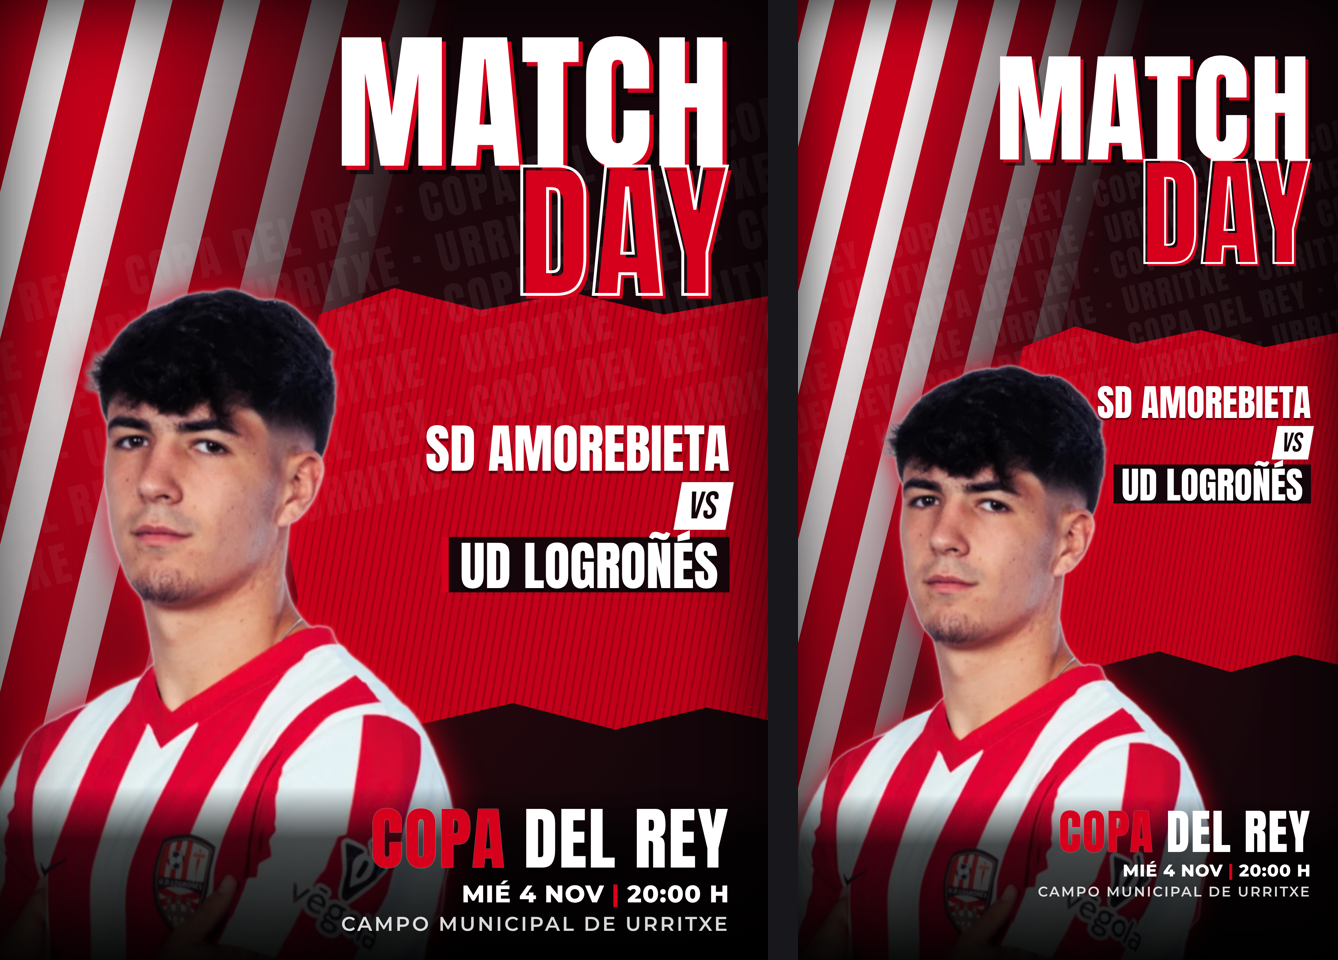
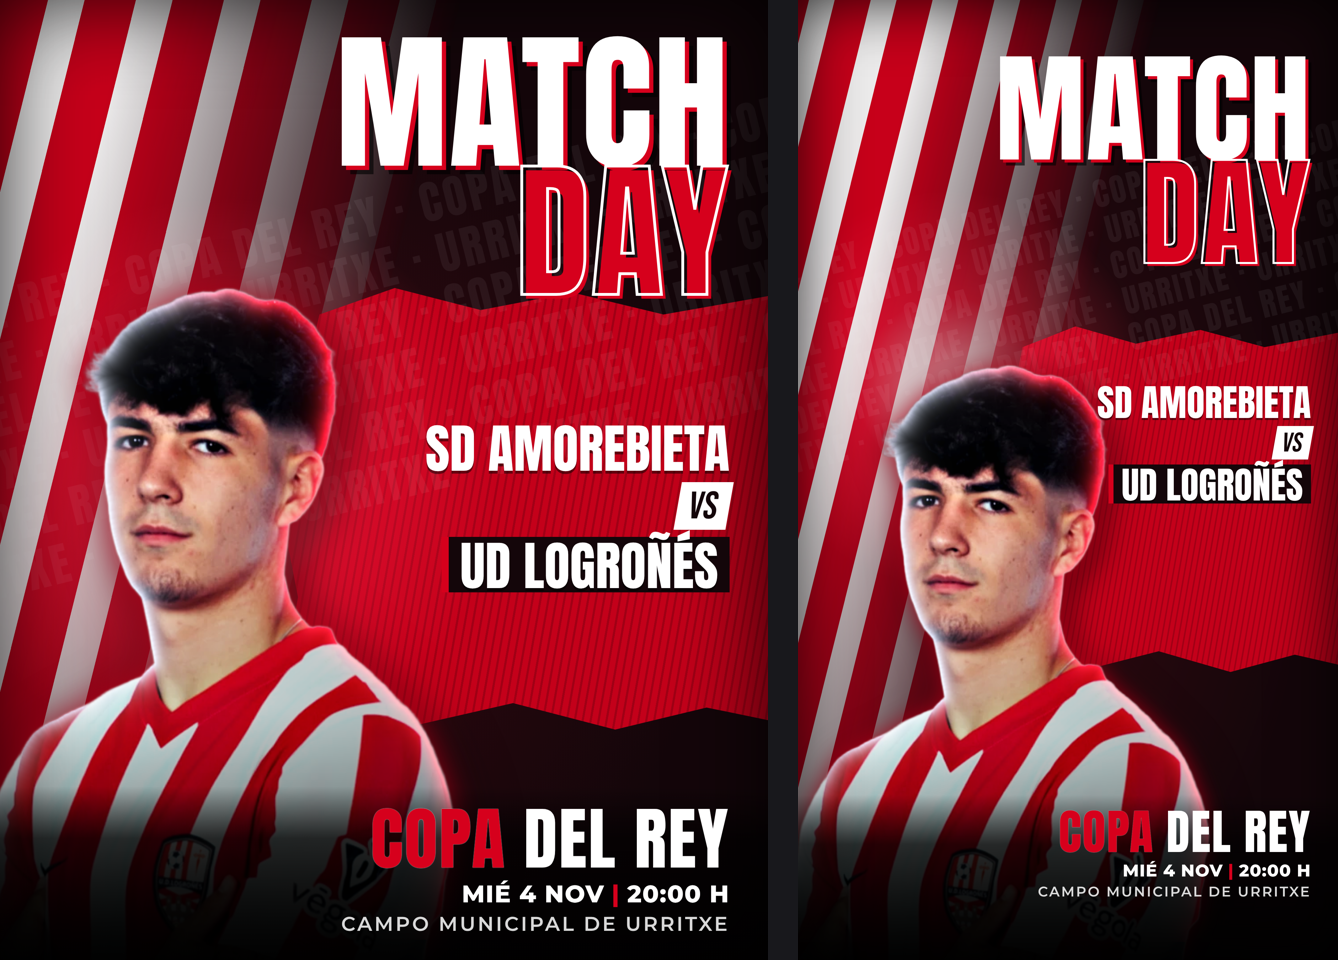
Miniaturero: herramienta 'iluminar' (luz de estudio) y aplicarla al jugador del Match Day
Claude-Session: https://claude.ai/code/session_01Q54DXVH7GopsR3mpjPBNRA

Changed region(s): [[0.0, 0.2812, 0.3371, 0.9688], [0.6129, 0.25, 0.9193, 0.9688]]

diff --git a/miniaturero/salida/2026-11-01_matchday-logrones/proyecto/matchday.html b/miniaturero/salida/2026-11-01_matchday-logrones/proyecto/matchday.html
@@ -37,9 +37,13 @@
 
   .vineta { position: absolute; inset: 0; box-shadow: inset 0 0 220px rgba(0,0,0,.85); pointer-events: none; }
 
+  /* contraluz: foco detrás de la cabeza del jugador */
+  .contraluz { position: absolute; left: -12%; top: 18%; width: 80%; aspect-ratio: 1; border-radius: 50%;
+    background: radial-gradient(circle, rgba(255,235,235,.55) 0%, rgba(255,40,60,.35) 30%, rgba(214,0,28,0) 65%);
+    mix-blend-mode: screen; }
   /* jugador recortado */
   .jugador { position: absolute; bottom: 0; left: -7%; height: var(--jugador-alto);
-    filter: drop-shadow(0 0 2px #fff) drop-shadow(0 0 24px rgba(214,0,28,.9)); }
+    filter: drop-shadow(0 0 1px rgba(255,255,255,.7)) drop-shadow(0 0 22px rgba(214,0,28,.7)) drop-shadow(14px 18px 30px rgba(0,0,0,.6)); }
 
   .titulo { position: absolute; right: 5%; top: 4%; text-align: right; color: var(--blanco);
     font-size: 210px; line-height: .86; letter-spacing: 2px;
@@ -87,7 +91,8 @@
   <div class="eco">COPA DEL REY · COPA DEL REY · COPA DEL REY · COPA DEL REY<br>· URRITXE · URRITXE · URRITXE · URRITXE · URRITXE ·<br>COPA DEL REY · COPA DEL REY · COPA DEL REY · COPA DEL REY<br>· URRITXE · URRITXE · URRITXE · URRITXE · URRITXE ·<br>COPA DEL REY · COPA DEL REY · COPA DEL REY · COPA DEL REY<br>· URRITXE · URRITXE · URRITXE · URRITXE · URRITXE ·</div>
 
   <!-- Jugador: Anai Morales, recortado de la foto aportada por el usuario (entrada/anai_morales.webp) -->
-  <img class="jugador" src="img/jugador.png" alt="Anai Morales">
+  <div class="contraluz"></div>
+  <img class="jugador" src="img/jugador_iluminado.png" alt="Anai Morales">
 
   <div class="vineta"></div>
 

diff --git a/miniaturero/herramientas/mini.py b/miniaturero/herramientas/mini.py
@@ -9,6 +9,7 @@ Uso:
   python3 herramientas/mini.py caras      FOTO                                 # lista caras y avisa si son pequeñas
   python3 herramientas/mini.py cambiar-cara MI_CARA DESTINO SALIDA [--indice 0] [--sin-mejora]
   python3 herramientas/mini.py igualar-luz RECORTE.png REFERENCIA SALIDA.png [--fuerza 0.6]
+  python3 herramientas/mini.py iluminar   RECORTE.png SALIDA.png [--rim-der #ff1a2e --rim-izq #dfe9ff]  # luz de estudio
   python3 herramientas/mini.py revisar    MINIATURA.png [MAS.png ...] --salida comparativa.png
   python3 herramientas/mini.py exportar   MINIATURA.png                        # crea la versión JPG <= 2 MB
 
@@ -276,6 +277,65 @@ def cmd_igualar_luz(a):
     print(f"Luz/color igualados en {a.salida}")
 
 
+def color_hex(h):
+    h = h.lstrip("#"); return np.array([int(h[i:i + 2], 16) for i in (0, 2, 4)], np.float32) / 255
+
+
+def iluminar(rgba, rim_der="#ff1a2e", rim_izq="#dfe9ff", fuerza_rim=1.0, clave=0.55, fundido=0.4):
+    """Iluminación de estudio sobre un recorte RGBA:
+    luz principal suave desde arriba a la izquierda, luces de contorno (rim) de color por los bordes,
+    más contraste local y la parte de abajo fundida en sombra."""
+    rgb = rgba[..., :3].astype(np.float32) / 255
+    a = rgba[..., 3].astype(np.float32) / 255
+    h, w = a.shape
+    ys, xs = np.where(a > 0.5)
+    x0, x1, y0, y1 = xs.min(), xs.max(), ys.min(), ys.max()
+    # 1) contraste local ("clarity") y curva en S suave
+    lum = rgb.mean(2, keepdims=True)
+    rgb = rgb + (rgb - cv2.GaussianBlur(rgb, (0, 0), max(h, w) * 0.03)) * 0.35
+    rgb = rgb.clip(0, 1)
+    rgb = rgb + (rgb - 0.5) * 0.12 - 0.12 * (rgb - 0.5) ** 3 * 4
+    # 2) luz principal: más luz arriba-izquierda, cae hacia abajo-derecha
+    gx = (np.arange(w)[None, :] - x0) / max(x1 - x0, 1)
+    gy = (np.arange(h)[:, None] - y0) / max(y1 - y0, 1)
+    g = np.clip(1 - (0.55 * gx + 0.75 * gy), 0, 1)
+    rgb = rgb * (1 - clave * 0.5 + clave * g[..., None] ** 1.2)
+    # 3) fundido a sombra en la parte de abajo
+    f = np.clip((gy - 0.62) / 0.38, 0, 1) ** 1.3 * fundido * 2
+    rgb = rgb * (1 - np.clip(f, 0, 0.85))[..., None]
+    # 4) luces de contorno: según hacia dónde mira cada borde
+    # se calcula con margen alrededor: si el recorte toca el borde de la imagen, las normales salen bien
+    m = int(max(h, w) * 0.1)
+    ap = cv2.copyMakeBorder(a, m, m, m, m, cv2.BORDER_CONSTANT, value=0)
+    ancho = max(h, w) * 0.016
+    d = cv2.distanceTransform((ap > 0.5).astype(np.uint8), cv2.DIST_L2, 5)[m:-m, m:-m]
+    borde = np.exp(-d / ancho) * a
+    ab = cv2.GaussianBlur(ap, (0, 0), ancho * 3)
+    nx = -cv2.Sobel(ab, cv2.CV_32F, 1, 0, ksize=5)[m:-m, m:-m]
+    ny = -cv2.Sobel(ab, cv2.CV_32F, 0, 1, ksize=5)[m:-m, m:-m]
+    # los bordes que solo son el corte de la foto (abajo del todo) no llevan luz
+    borde[int(h * 0.97):] = 0
+    n = np.sqrt(nx ** 2 + ny ** 2) + 1e-6
+    nx, ny = nx / n, ny / n
+    # mezcla gradual: bordes que miran a la izquierda -> luz fría, a la derecha -> luz de color
+    t = np.clip(0.5 + 0.8 * nx, 0, 1); t = t * t * (3 - 2 * t)
+    orienta = np.clip(0.35 + 0.65 * np.maximum(np.abs(nx), -ny), 0, 1)   # menos luz en bordes que miran abajo
+    color = (1 - t)[..., None] * color_hex(rim_izq) * 1.25 + t[..., None] * color_hex(rim_der) * 1.6
+    luz = (borde * orienta)[..., None] * color
+    luz = luz * fuerza_rim * (1 - np.clip(f, 0, 1))[..., None]
+    rgb = 1 - (1 - rgb.clip(0, 1)) * (1 - luz.clip(0, 1))       # mezcla "trama" (screen)
+    out = (rgb.clip(0, 1) * 255).astype(np.uint8)
+    return np.dstack([out, rgba[..., 3]])
+
+
+def cmd_iluminar(a):
+    no_pisar(a.recorte, a.salida)
+    im = np.array(Image.open(a.recorte).convert("RGBA"))
+    res = iluminar(im, a.rim_der, a.rim_izq, a.fuerza_rim, a.clave, a.fundido)
+    Image.fromarray(res).save(a.salida)
+    print(f"Iluminación de estudio aplicada en {a.salida}")
+
+
 # ---------------------------------------------------------------- revisión y exportación
 def fuente(tam):
     f = BASE / "assets/fonts/Montserrat-Variable.ttf"
@@ -345,6 +405,10 @@ def main():
     s.add_argument("--indice", type=int, default=0); s.add_argument("--sin-mejora", action="store_true"); s.set_defaults(f=cmd_cambiar_cara)
     s = sp.add_parser("igualar-luz"); s.add_argument("recorte"); s.add_argument("referencia"); s.add_argument("salida")
     s.add_argument("--fuerza", type=float, default=0.6); s.set_defaults(f=cmd_igualar_luz)
+    s = sp.add_parser("iluminar"); s.add_argument("recorte"); s.add_argument("salida")
+    s.add_argument("--rim-der", default="#ff1a2e"); s.add_argument("--rim-izq", default="#dfe9ff")
+    s.add_argument("--fuerza-rim", type=float, default=1.0); s.add_argument("--clave", type=float, default=0.55)
+    s.add_argument("--fundido", type=float, default=0.4); s.set_defaults(f=cmd_iluminar)
     s = sp.add_parser("revisar"); s.add_argument("imagenes", nargs="+"); s.add_argument("--salida", required=True); s.set_defaults(f=cmd_revisar)
     s = sp.add_parser("exportar"); s.add_argument("imagen"); s.set_defaults(f=cmd_exportar)
     a = p.parse_args()

diff --git a/miniaturero/salida/2026-11-01_matchday-logrones/notas.md b/miniaturero/salida/2026-11-01_matchday-logrones/notas.md
@@ -5,6 +5,7 @@
 - **Colores:** rojo #d6001c, blanco y fondo casi negro #14060a.
 - **Fuentes:** Anton y Bebas Neue (titulares), Montserrat (datos). Todas con licencia SIL OFL.
 - **Jugador:** Anai Morales (UD Logroñés). Foto aportada por el usuario (`entrada/anai_morales.webp`, gráfico del club), recortada con BiRefNet → `proyecto/img/jugador.png`. Solo se usa el jugador (sin el texto, el estadio ni el escudo del gráfico). El escudo y el patrocinador de la camiseta vienen en la propia foto.
+- **Iluminación (3/11):** `mini.py iluminar` sobre el recorte → `proyecto/img/jugador_iluminado.png`: luz principal suave desde arriba a la izquierda, contorno blanco frío a la izquierda (pelo, hombro, brazo) que pasa a contorno rojo a la derecha, más contraste local y la parte de abajo fundida en sombra. En el HTML: contraluz rojo/blanco detrás de la cabeza y sombra proyectada. Revisión: 1) poco visible → más intensa; 2) se cortaba blanco/rojo de golpe sobre el pelo → transición gradual y cálculo con margen; 3) OK.
 - **Escudos:** no se han añadido aparte. Se pueden añadir si los aportas y confirmas que puedes usarlos.
 - **Revisión:** 1) el nombre del jugador abajo quedaba apagado y competía con "COPA DEL REY" → eliminado (pediste solo al jugador). 2) OK.
 

diff --git a/miniaturero/CLAUDE.md b/miniaturero/CLAUDE.md
@@ -32,6 +32,7 @@ Este entorno puede ser temporal (sesión en la nube): los modelos (`modelos/`, ~
 | Borrar elementos / texto / persona | `mini.py borrar FOTO MASCARA SALIDA` o `--caja x,y,w,h` (LaMa) | Apache-2.0 |
 | Detectar caras y tamaño | `mini.py caras` (YuNet) | MIT |
 | Cambiar solo la cara | `mini.py cambiar-cara MI_CARA DESTINO SALIDA --indice N` (inswapper + ArcFace + GFPGAN) | **NO COMERCIAL** |
+| Iluminación de estudio (luz principal, contornos de color, contraste, fundido abajo) | `mini.py iluminar RECORTE SALIDA [--rim-der #hex --rim-izq #hex --clave 0.55 --fundido 0.4]` + en el HTML un `.contraluz` (degradado radial con `mix-blend-mode: screen`) detrás de la cabeza | — |
 | Igualar luz/color de un recorte | `mini.py igualar-luz RECORTE REFERENCIA SALIDA --fuerza 0.6` | — |
 | Revisión grande + móvil | `mini.py revisar A.png [B.png…] --salida comparativa.png` | — |
 | JPG ≤ 2 MB | `mini.py exportar miniatura.png` | — |
